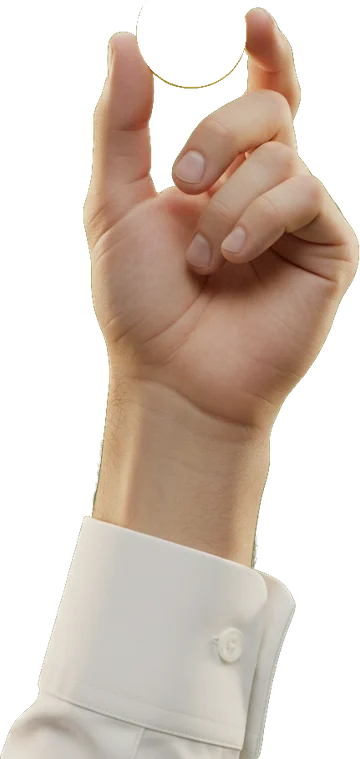
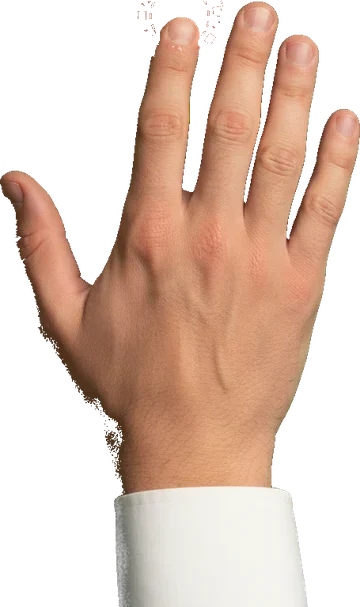
roulette 3d: palm-down hand placing the chip; camera to the dealer lower, slower, +1 s; Marie's voice for the two dealer lines
Claude-Session: https://claude.ai/code/session_01HyesyyBCbeiSxEY2nGTHas

diff --git a/docs/roulette3d.js b/docs/roulette3d.js
@@ -13,8 +13,8 @@ const fmt = (n) => { n = Math.floor(Number(n) + 1e-6); const a = Math.abs(n); re
 const short = (v) => v >= 1e6 ? v / 1e6 + "M" : v >= 1e3 ? v / 1e3 + "K" : String(v);
 const sfx = (f) => { try { f(); } catch (e) {} };
 // Ms Fisher's voice: one clip per call (snd/r3d/n0..n36, bets, nomore), played at the effects volume
-const voice = (name) => { try { SFX.fx("r3d/" + name, { vol: 0.95 }); } catch (e) {} };
-const preload = (name) => { try { SFX.fx("r3d/" + name, { vol: 0 }); } catch (e) {} };   // sfx.js loads a file on first use
+const voice = (name) => { try { SFX.fx("r3d/" + name + "_v2", { vol: 0.95 }); } catch (e) {} };
+const preload = (name) => { try { SFX.fx("r3d/" + name + "_v2", { vol: 0 }); } catch (e) {} };   // sfx.js loads a file on first use
 
 // ---------- the table, in metres (x right, y up, z toward the player) ----------
 const H = 0.9;                                      // felt height
@@ -50,7 +50,7 @@ renderer.outputColorSpace = THREE.SRGBColorSpace; renderer.toneMapping = THREE.A
 renderer.shadowMap.enabled = true; renderer.shadowMap.type = THREE.PCFSoftShadowMap;
 const scene = new THREE.Scene(); scene.background = new THREE.Color(0x0b0908);
 const camera = new THREE.PerspectiveCamera(56, 16 / 9, 0.05, 30);
-const EYE = new THREE.Vector3(0.1, 1.6, 0.82), LOOK_BET = new THREE.Vector3(0.1, 0.9, -0.12), LOOK_DEALER = new THREE.Vector3(0.1, 1.3, -1.0);
+const EYE = new THREE.Vector3(0.1, 1.6, 0.82), LOOK_BET = new THREE.Vector3(0.1, 0.9, -0.12), LOOK_DEALER = new THREE.Vector3(0.1, 1.08, -1.0);
 const LOOK = LOOK_BET.clone(); let lookTo = LOOK_BET;
 camera.position.copy(EYE); camera.lookAt(LOOK);
 
@@ -193,7 +193,7 @@ let handAnim = null;
 function reach(a) {
   if (totalBet() + chipVal > balance) { say("אין מספיק שקלים"); return; }
   const c = areaCenter(a).project(camera), x = (c.x + 1) / 2 * innerWidth, y = (1 - c.y) / 2 * innerHeight;
-  const el = $("hand"), h = innerHeight * 0.62, w = h * 360 / 759, px = w * 0.531, py = h * 0.042;
+  const el = $("hand"), h = innerHeight * 0.52, w = h * 360 / 607, px = w * 0.497, py = h * 0.021;
   const tilt = Math.max(-22, Math.min(22, (x - innerWidth * 0.62) / innerWidth * 40));
   $("handChip").src = `img/r3d/chip_${CHIPS.find((k) => k.v === chipVal).c}.png?v=1`; $("handChip").classList.remove("drop");
   if (handAnim) handAnim.cancel();
@@ -263,7 +263,7 @@ async function spin() {
   try { res = await serverSpin(); } catch (e) { busy = false; showTotal(); $("bar").classList.remove("off"); say(errText(e), 3000); return; }
   lastBets = new Map(bets); showBal(res.balance - res.payout); preload("n" + res.result);
   say("No more bets", 1600); voice("nomore");
-  lookTo = LOOK_DEALER; dealerPlay("throw");
+  lookTo = LOOK_DEALER; await wait(1000); dealerPlay("throw");
   await wait(RELEASE * 1000);
   // to the wheel
   topView = false; $("topView").setAttribute("aria-pressed", "false"); $("topView").textContent = "מבט על";
@@ -327,7 +327,7 @@ function frame(now) {
     W.camera();
     return;
   }
-  LOOK.lerp(lookTo, 1 - Math.pow(0.02, dt)); camera.position.copy(EYE); camera.lookAt(LOOK);
+  LOOK.lerp(lookTo, 1 - Math.pow(0.18, dt)); camera.position.copy(EYE); camera.lookAt(LOOK);
   renderer.render(scene, camera);
 }
 

diff --git a/docs/roulette3d.html b/docs/roulette3d.html
@@ -7,7 +7,7 @@
 <title>רולטה 3D · גולן קזינו</title>
 <link rel="icon" href="img/brand/favicon.png?v=2">
 <link rel="stylesheet" href="https://fonts.googleapis.com/css2?family=Heebo:wght@400;700;900&family=Inter:wght@700;800;900&display=swap">
-<link rel="stylesheet" href="roulette3d.css?v=1">
+<link rel="stylesheet" href="roulette3d.css?v=2">
 <script src="https://cdn.jsdelivr.net/npm/@supabase/supabase-js@2.45.4/dist/umd/supabase.min.js"></script>
 <script src="config.js?v=8"></script>
 <script src="landscape.js?v=1"></script>
@@ -24,7 +24,7 @@
 </header>
 
 <div id="say" class="say" aria-live="polite"></div>
-<div id="hand" class="hand" hidden><img src="img/r3d/hand.webp?v=1" alt=""><img id="handChip" class="hchip" alt=""></div>
+<div id="hand" class="hand" hidden><img src="img/r3d/hand.webp?v=2" alt=""><img id="handChip" class="hchip" alt=""></div>
 
 <footer class="bar" id="bar">
   <div class="chips" id="chips" aria-label="בחירת צ׳יפ"></div>
@@ -62,6 +62,6 @@
 <script src="sfx.js?v=1794046058"></script>
 <script src="rl_wheel.js?v=3"></script>
 <script type="module" src="rl_wheel3d.js?v=1"></script>
-<script type="module" src="roulette3d.js?v=1"></script>
+<script type="module" src="roulette3d.js?v=2"></script>
 </body>
 </html>

diff --git a/docs/roulette3d.css b/docs/roulette3d.css
@@ -51,9 +51,9 @@
 @media (max-width:700px){.chips{gap:4px}.chip{width:38px;height:38px}.mid{min-width:70px}}
 
 /* the player's own hand reaching to the table (an image above the 3D scene) */
-.hand{position:fixed;left:0;top:0;z-index:21;pointer-events:none;height:62vh;aspect-ratio:360/759;transform-origin:53% 4%;will-change:transform;filter:drop-shadow(0 18px 18px #000a)}
+.hand{position:fixed;left:0;top:0;z-index:21;pointer-events:none;height:52vh;aspect-ratio:360/607;transform-origin:50% 2%;will-change:transform;filter:drop-shadow(0 18px 18px #000a)}
 .hand[hidden]{display:none}
 .hand img{position:absolute;left:0;top:0;width:100%;height:100%}
-.hand .hchip{width:31%;height:auto;left:37.6%;top:-10.5%;transform:rotateX(55deg);transition:opacity .12s}
+.hand .hchip{width:27%;height:auto;left:36%;top:-6.5%;transform:scaleY(.62);transition:opacity .12s}
 .hand .hchip.drop{opacity:0}
 .wheelview:not([hidden]) ~ .result{top:16%;transform:translate(-50%,0)}
